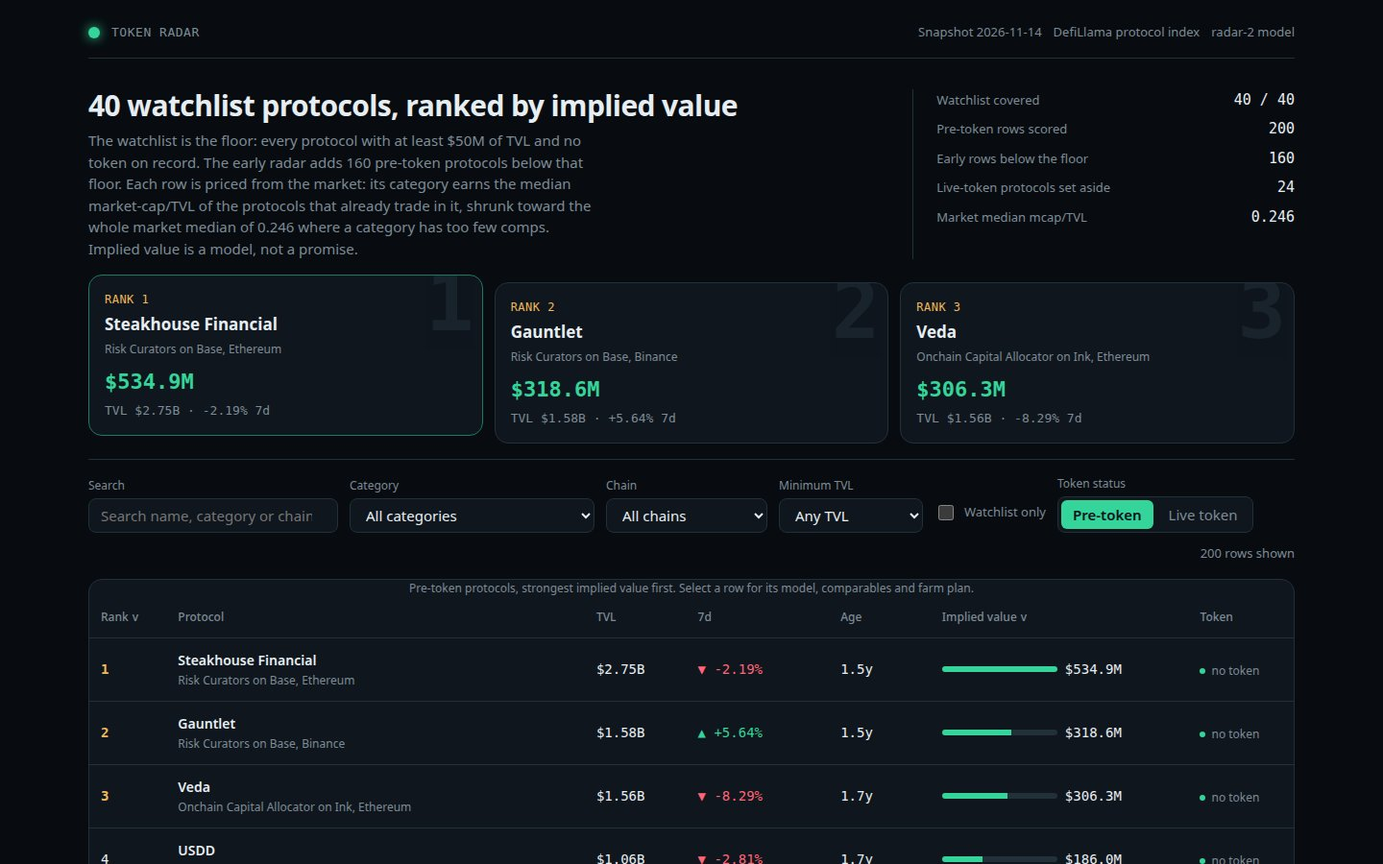
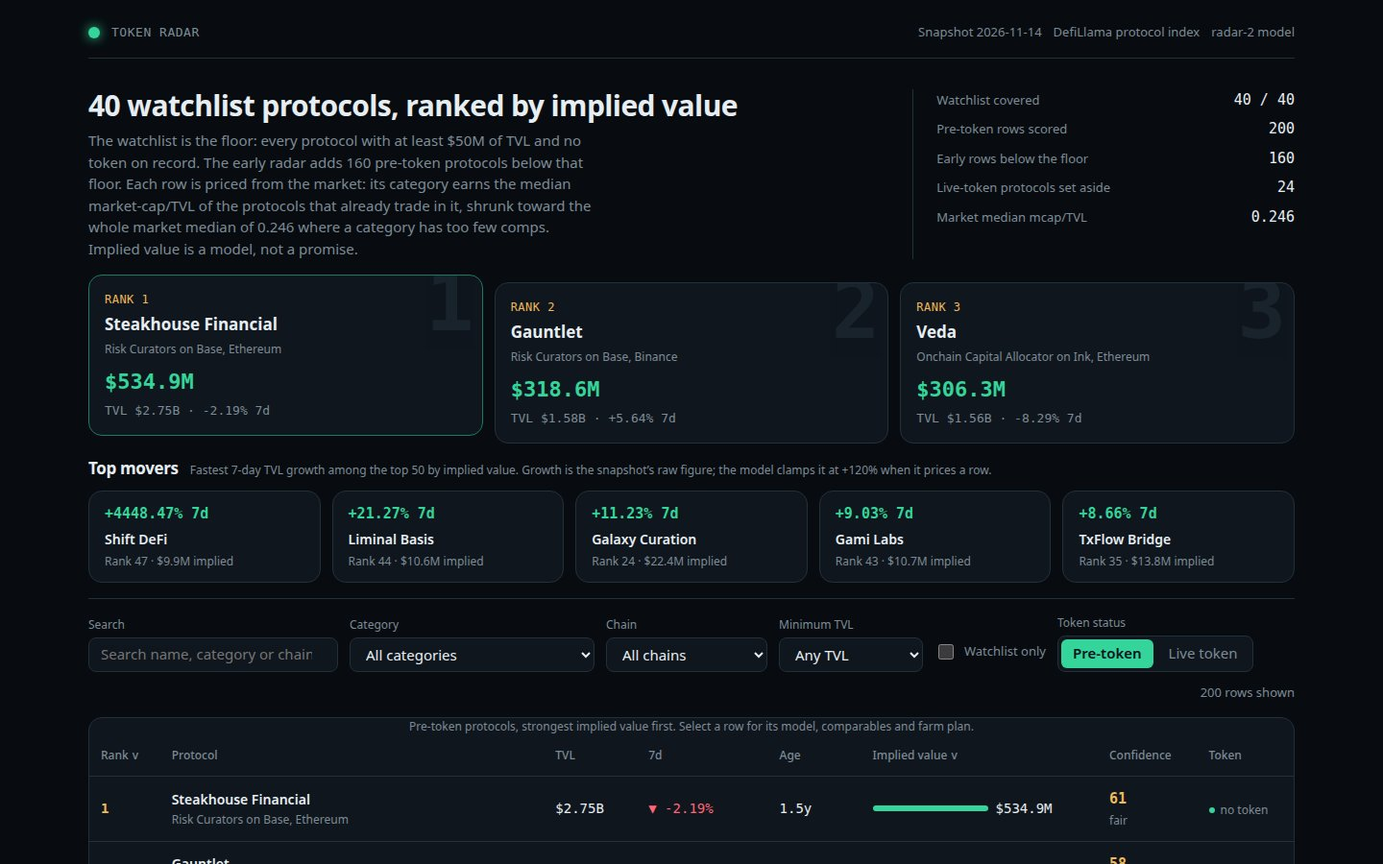
Token Radar resubmission: confidence score, Top Movers, sandbox presets
- Confidence score (0-100) per protocol in board.json and the dashboard:
  40 pts live comps in category, 30 pts TVL size (log $5M-$5B),
  30 pts record (age + growth known). Board column (sortable) + detail
  drawer breakdown with what drives it.
- Top Movers strip: 5 fastest 7-day TVL growers among the top 50 by
  implied value, each opening its detail drawer.
- Sandbox presets Conservative / Base / Aggressive set growth + maturity
  weights together, with a live note on how the top 3 moves.
- Model: maturity_weight added (base 1.0, board identical to submitted).
  Top-5 implied values unchanged (Steakhouse $534.9M, Gauntlet $318.6M,
  Veda $306.3M, USDD $186.0M, Upshift $109.9M).

diff --git a/dashboard/app.js b/dashboard/app.js
@@ -13,7 +13,8 @@
     sort: 'implied', dir: -1, selected: null,
     watchlistOnly: false, tvlMin: 0,
     sandboxWeight: DATA.model.growth_weight, sandboxFallback: DATA.overall_median,
-    sandboxOn: false,
+    sandboxMaturity: DATA.model.maturity_weight || 1,
+    sandboxOn: false, presetNote: '',
   };
 
   var usd = new Intl.NumberFormat('en-US', { style: 'currency', currency: 'USD', maximumFractionDigits: 0 });
@@ -44,19 +45,46 @@
 
   // The model in one function: the page recomputes a row from the snapshot figures and checks the
   // number board.json carries, so the page's code and the board's data are visibly the same
-  // arithmetic. The sandbox changes the growth weight and the fallback multiple (the multiple a
-  // category with too few live comps falls back to) and recomputes every row.
-  function impliedOf(row, model, weight, fallback) {
+  // arithmetic. The sandbox changes the growth weight, the maturity weight and the fallback
+  // multiple (the multiple a category with too few live comps falls back to) and recomputes
+  // every row. The maturity weight scales the age premium: 1 is the submitted model, 0.5 halves
+  // it, 1.5 raises it.
+  function impliedOf(row, model, weight, fallback, maturityWeight) {
     var multiple = (row.category_median !== null && row.category_comps >= 3) ? row.category_multiple : fallback;
     var growth = Math.min(model.growth_cap, Math.max(model.growth_floor, row.change_7d === null || row.change_7d === undefined ? 0 : row.change_7d));
     var growthMult = 1 + (growth / 100) * weight;
     var age = row.age_days === null || row.age_days === undefined ? model.unknown_age_days : row.age_days;
-    var maturity = model.maturity_floor + (Math.min(Math.max(age, 0), model.maturity_days) / model.maturity_days) * model.maturity_range;
+    var mw = maturityWeight === undefined || maturityWeight === null ? 1 : maturityWeight;
+    var maturity = model.maturity_floor + (Math.min(Math.max(age, 0), model.maturity_days) / model.maturity_days) * model.maturity_range * mw;
     return Math.max(1, Math.round(row.tvl_usd * multiple * growthMult * maturity));
   }
   function shownImplied(row) {
     if (!state.sandboxOn) return row.implied_value_usd;
-    return impliedOf(row, DATA.model, state.sandboxWeight, state.sandboxFallback);
+    return impliedOf(row, DATA.model, state.sandboxWeight, state.sandboxFallback, state.sandboxMaturity);
+  }
+
+  // Confidence: 0-100, from the snapshot's own figures. 40 points for the depth of the
+  // category's live bench (full at 12 comps), 30 for TVL size (log scale $5M-$5B), 30 for the
+  // record (15 age known, 15 growth known). A high implied value with a low score is a thin claim.
+  function confClass(score) {
+    if (score >= 70) return 'conf-high';
+    if (score >= 50) return 'conf-mid';
+    return 'conf-low';
+  }
+  function confLabel(score) {
+    if (score >= 70) return 'solid';
+    if (score >= 50) return 'fair';
+    return 'thin';
+  }
+
+  // Top movers: the fastest seven-day TVL growth among the top 50 by implied value, from the
+  // snapshot's raw growth figures. The model clamps growth at 120% when it prices a row, but the
+  // strip shows the raw figure, so a +4448% week reads as what it is: a tiny base exploding.
+  function topMovers() {
+    return DATA.rows.slice(0, 50)
+      .filter(function (r) { return r.change_7d !== null && r.change_7d !== undefined; })
+      .sort(function (a, b) { return b.change_7d - a.change_7d; })
+      .slice(0, 5);
   }
 
   function el(tag, attrs) {
@@ -201,6 +229,7 @@
       else if (key === 'tvl') { av = a.tvl_usd; bv = b.tvl_usd; }
       else if (key === 'growth') { av = a.change_7d === null ? -Infinity : a.change_7d; bv = b.change_7d === null ? -Infinity : b.change_7d; }
       else if (key === 'age') { av = a.age_days === null ? Infinity : a.age_days; bv = b.age_days === null ? Infinity : b.age_days; }
+      else if (key === 'confidence') { av = a.confidence_score; bv = b.confidence_score; }
       else { av = shownImplied(a); bv = shownImplied(b); }
       if (av < bv) return -state.dir;
       if (av > bv) return state.dir;
@@ -232,6 +261,25 @@
         el('div', { class: 'fact' }, el('span', { text: 'Live-token protocols set aside' }), el('b', { text: String(DATA.live_size) })),
         el('div', { class: 'fact' }, el('span', { text: 'Market median mcap/TVL' }), el('b', { text: String(DATA.overall_median) }))
       )
+    );
+  }
+
+  function moversStrip() {
+    var movers = topMovers();
+    if (movers.length === 0) return null;
+    var cards = movers.map(function (r) {
+      return el('div', { class: 'mover-card', tabindex: '0', role: 'button', onclick: function () { openDetail(r.slug); }, onkeydown: function (e) { if (e.key === 'Enter' || e.key === ' ') { e.preventDefault(); openDetail(r.slug); } } },
+        el('span', { class: 'mover-growth pos', text: '+' + r.change_7d.toFixed(2) + '% 7d' }),
+        el('b', { text: r.name }),
+        el('span', { class: 'sub', text: 'Rank ' + r.rank + ' · ' + fmtUsd(shownImplied(r)) + ' implied' })
+      );
+    });
+    return el('section', { class: 'movers', 'aria-label': 'Top movers' },
+      el('div', { class: 'movers-head' },
+        el('h2', { text: 'Top movers' }),
+        el('span', { class: 'sub', text: 'Fastest 7-day TVL growth among the top 50 by implied value. Growth is the snapshot\u2019s raw figure; the model clamps it at +120% when it prices a row.' })
+      ),
+      el('div', { class: 'movers-grid' }, cards)
     );
   }
 
@@ -330,6 +378,10 @@
           el('div', { class: 'bar', 'aria-hidden': 'true' }, el('i', { style: 'width:' + Math.max(3, Math.round((shownImplied(r) / max) * 100)) + '%' })),
           el('span', { class: 'num', text: fmtUsd(shownImplied(r)) })
         )),
+        el('td', null, el('div', { class: 'conf' },
+          el('span', { class: 'num ' + confClass(r.confidence_score), text: String(r.confidence_score) }),
+          el('span', { class: 'sub', text: confLabel(r.confidence_score) })
+        )),
         el('td', null, el('span', { class: 'status', text: 'no token' }))
       );
       tbody.appendChild(tr);
@@ -345,6 +397,7 @@
             sortHeader('growth', '7d'),
             sortHeader('age', 'Age'),
             sortHeader('implied', 'Implied value'),
+            sortHeader('confidence', 'Confidence'),
             el('th', { scope: 'col', text: 'Token' })
           )),
           tbody
@@ -388,27 +441,60 @@
     });
     var weightInput = el('input', { type: 'number', id: 'sb-weight', step: '0.1', min: '0', max: '2', value: String(state.sandboxWeight) });
     var fallbackInput = el('input', { type: 'number', id: 'sb-fallback', step: '0.01', min: '0.02', max: '2', value: String(state.sandboxFallback) });
+    var maturityInput = el('input', { type: 'number', id: 'sb-maturity', step: '0.1', min: '0', max: '2', value: String(state.sandboxMaturity) });
     var out = el('span', { class: 'out' });
+    var presetNote = el('span', { class: 'out preset-note', text: state.presetNote || '' });
+    function top3Note(weight, maturity, fallback) {
+      var baseTop = DATA.rows.slice(0, 3);
+      var baseTotal = baseTop.reduce(function (s, r) { return s + r.implied_value_usd; }, 0);
+      var rescored = DATA.rows.map(function (r) { return { slug: r.slug, name: r.name, v: impliedOf(r, m, weight, fallback, maturity) }; });
+      rescored.sort(function (a, b) { return b.v - a.v; });
+      var newTop = rescored.slice(0, 3);
+      var newTotal = newTop.reduce(function (s, r) { return s + r.v; }, 0);
+      var pct = baseTotal > 0 ? ((newTotal - baseTotal) / baseTotal * 100) : 0;
+      var leader = newTop[0] ? newTop[0].name : 'none';
+      var stays = leader === baseTop[0].name ? 'stays #1' : 'takes #1 from ' + baseTop[0].name;
+      return 'Top-3 total ' + fmtUsd(baseTotal) + ' -> ' + fmtUsd(newTotal) + ' (' + (pct >= 0 ? '+' : '') + pct.toFixed(1) + '%); ' + leader + ' ' + stays + '.';
+    }
     function refreshOut() {
       var top = DATA.rows[0];
       var before = top ? top.implied_value_usd : 0;
-      var after = top ? impliedOf(top, m, state.sandboxWeight, state.sandboxFallback) : 0;
-      var changed = DATA.rows.filter(function (r) { return impliedOf(r, m, state.sandboxWeight, state.sandboxFallback) !== r.implied_value_usd; }).length;
+      var after = top ? impliedOf(top, m, state.sandboxWeight, state.sandboxFallback, state.sandboxMaturity) : 0;
+      var changed = DATA.rows.filter(function (r) { return impliedOf(r, m, state.sandboxWeight, state.sandboxFallback, state.sandboxMaturity) !== r.implied_value_usd; }).length;
       out.textContent = '';
       out.appendChild(document.createTextNode('Rank 1: '));
       out.appendChild(el('b', { text: fmtUsd(before) + ' -> ' + fmtUsd(after) }));
       out.appendChild(document.createTextNode('  ·  ' + changed + ' of ' + DATA.rows.length + ' rows move'));
       if (state.sandboxOn) out.appendChild(el('span', { class: 'modified-badge', text: 'Model modified' }));
     }
-    weightInput.addEventListener('input', function () { state.sandboxWeight = Number(weightInput.value) || 0; state.sandboxOn = true; refreshOut(); render(); });
-    fallbackInput.addEventListener('input', function () { state.sandboxFallback = Number(fallbackInput.value) || DATA.overall_median; state.sandboxOn = true; refreshOut(); render(); });
-    var reset = el('button', { class: 'button', type: 'button', text: 'Reset model', onclick: function () { state.sandboxWeight = m.growth_weight; state.sandboxFallback = DATA.overall_median; state.sandboxOn = false; render(); } });
+    function applyPreset(name, weight, maturity) {
+      state.sandboxWeight = weight;
+      state.sandboxMaturity = maturity;
+      state.sandboxFallback = DATA.overall_median;
+      state.sandboxOn = !(weight === m.growth_weight && maturity === 1);
+      weightInput.value = String(weight);
+      maturityInput.value = String(maturity);
+      fallbackInput.value = String(DATA.overall_median);
+      state.presetNote = name + ': ' + top3Note(weight, maturity, DATA.overall_median);
+      presetNote.textContent = state.presetNote;
+      refreshOut();
+      render();
+    }
+    weightInput.addEventListener('input', function () { state.sandboxWeight = Number(weightInput.value) || 0; state.sandboxOn = true; state.presetNote = ''; refreshOut(); render(); });
+    fallbackInput.addEventListener('input', function () { state.sandboxFallback = Number(fallbackInput.value) || DATA.overall_median; state.sandboxOn = true; state.presetNote = ''; refreshOut(); render(); });
+    maturityInput.addEventListener('input', function () { state.sandboxMaturity = Number(maturityInput.value) || 0; state.sandboxOn = true; state.presetNote = ''; refreshOut(); render(); });
+    var reset = el('button', { class: 'button', type: 'button', text: 'Reset model', onclick: function () { state.sandboxWeight = m.growth_weight; state.sandboxFallback = DATA.overall_median; state.sandboxMaturity = 1; state.sandboxOn = false; state.presetNote = ''; render(); } });
     refreshOut();
+    var presets = el('div', { class: 'presets' },
+      el('button', { class: 'button preset', type: 'button', text: 'Conservative', onclick: function () { applyPreset('Conservative', 0.25, 0.5); } }),
+      el('button', { class: 'button preset', type: 'button', text: 'Base', onclick: function () { applyPreset('Base', m.growth_weight, 1); } }),
+      el('button', { class: 'button preset', type: 'button', text: 'Aggressive', onclick: function () { applyPreset('Aggressive', 1, 1.5); } })
+    );
     return el('section', { class: 'panel model' },
       el('h2', { text: 'How implied value is computed' }),
       el('p', { class: 'sub', text: 'Every row is scored by one function of the snapshot figures. No protocol name is special-cased, and no row is hand-picked. The category multiple is earned from the market: the median market-cap/TVL of the live-token protocols in that category, shrunk toward the whole market median of ' + DATA.overall_median + ' where a category has fewer than 3 live comps. One honest limit: the multiple is the market\'s circulating market-cap per dollar of TVL, a screening ratio, not a launch FDV. A valuable protocol can have a weakly accruing token, and TVL can be inflated, so read the board as a screen for where a launch would be worth watching, not as a valuation.' }),
       el('div', { class: 'formula' },
-        'implied = round( tvl_usd x multiple(category) x (1 + clamp(change_7d, ' + m.growth_floor + ', ' + m.growth_cap + ') / 100 x ' + m.growth_weight + ') x (' + m.maturity_floor + ' + min(age_days, ' + m.maturity_days + ') / ' + m.maturity_days + ' x ' + m.maturity_range + ') )'
+        'implied = round( tvl_usd x multiple(category) x (1 + clamp(change_7d, ' + m.growth_floor + ', ' + m.growth_cap + ') / 100 x ' + m.growth_weight + ') x (' + m.maturity_floor + ' + min(age_days, ' + m.maturity_days + ') / ' + m.maturity_days + ' x ' + m.maturity_range + ' x ' + (m.maturity_weight || 1) + ') )'
       ),
       el('p', { class: 'sub', text: 'multiple(category) = w x median(category) + (1 - w) x ' + DATA.overall_median + ', w = n / (n + ' + m.shrink_prior + '), n = live comps in the category (n < ' + m.min_comps + ' means the multiple is the market median), capped to [' + m.multiple_floor + ', ' + m.multiple_cap + ']. TVL and seven-day growth come from the snapshot. Age is the time since the protocol was first listed, the best record of how long it has run with no token; an unlisted age uses ' + m.unknown_age_days + ' days.' }),
       el('h3', { text: 'Category markets' }),
@@ -419,12 +505,18 @@
         )
       ),
       el('h3', { text: 'Model sandbox' }),
-      el('p', { class: 'sub', text: 'Change the two dials and the board recomputes live. Growth weight moves every row; the fallback multiple moves only the rows whose category has too few live comps. The board you submit is the one with the dials at their defaults.' }),
+      el('p', { class: 'sub', text: 'Change the three dials and the board recomputes live. Growth weight moves every row; the maturity weight scales the age premium; the fallback multiple moves only the rows whose category has too few live comps. The presets set the growth and maturity weights together. The board you submit is the one with the dials at their defaults.' }),
       el('div', { class: 'sandbox' },
         el('div', { class: 'field' }, el('label', { for: 'sb-weight', text: 'Growth weight' }), weightInput),
+        el('div', { class: 'field' }, el('label', { for: 'sb-maturity', text: 'Maturity weight' }), maturityInput),
         el('div', { class: 'field' }, el('label', { for: 'sb-fallback', text: 'Fallback multiple' }), fallbackInput),
         reset,
         out
+      ),
+      el('div', { class: 'sandbox-presets' },
+        el('span', { class: 'sub', text: 'Scenarios:' }),
+        presets,
+        presetNote
       )
     );
   }
@@ -493,6 +585,26 @@
       ),
       el('p', { class: 'sub', text: 'Model ' + DATA.model_version + ': the same function scores every protocol. The page recomputes this row as ' + fmtUsd(recomputed) + (recomputedClose ? ', the same number board.json carries.' : ', which differs from the board: the data would be stale.') + ' This is an estimate, not a price.' })
     ));
+    // Confidence, in the drawer's own words: what the score is made of and what limits it.
+    var conf = row.confidence || { score: row.confidence_score, comps_points: 0, tvl_points: 0, data_points: 0 };
+    var confBench = row.category_comps >= 12
+      ? 'a deep bench of ' + row.category_comps + ' live comps in its category'
+      : row.category_comps >= 3
+        ? row.category_comps + ' live comps in its category'
+        : 'only ' + row.category_comps + ' live comp' + (row.category_comps === 1 ? '' : 's') + ', so it is priced off the market median';
+    var confData = conf.data_points >= 30
+      ? 'a complete record'
+      : conf.data_points > 0 ? 'one field missing from its record' : 'no age or growth on its record';
+    dialog.appendChild(el('section', { class: 'detail-section' },
+      el('h3', { text: 'Confidence ' + row.confidence_score + ' / 100 · ' + confLabel(row.confidence_score) }),
+      el('div', { class: 'equation' },
+        el('div', null, el('span', { text: 'Live comps in its category' }), el('b', { class: 'num', text: conf.comps_points + ' / 40' })),
+        el('div', null, el('span', { text: 'TVL size' }), el('b', { class: 'num', text: conf.tvl_points + ' / 30' })),
+        el('div', null, el('span', { text: 'Record completeness' }), el('b', { class: 'num', text: conf.data_points + ' / 30' })),
+        el('div', { class: 'total' }, el('span', { text: 'Confidence' }), el('b', { class: 'num', text: String(row.confidence_score) + ' / 100' }))
+      ),
+      el('p', { class: 'sub', text: 'What drives it: ' + confBench + ' (' + conf.comps_points + '/40), a ' + fmtUsd(row.tvl_usd) + ' TVL (' + conf.tvl_points + '/30), and ' + confData + ' (' + conf.data_points + '/30). A high implied value with a low score is a thin claim; a lower value with a high score is a solid one.' })
+    ));
     if (market) {
       var compRows = market.named.map(function (c) {
         return el('tr', null,
@@ -551,6 +663,7 @@
     shell.appendChild(header());
     shell.appendChild(lede());
     if (state.tab === 'pre-token') shell.appendChild(podium());
+    if (state.tab === 'pre-token') shell.appendChild(moversStrip());
     shell.appendChild(controls());
     shell.appendChild(state.tab === 'pre-token' ? boardTable() : liveTable());
     if (state.tab === 'pre-token') shell.appendChild(modelPanel());

diff --git a/lib/model.ts b/lib/model.ts
@@ -55,6 +55,7 @@ export interface ModelConstants {
   maturity_floor: number;
   maturity_range: number;
   maturity_days: number;
+  maturity_weight: number;
   unknown_age_days: number;
   shrink_prior: number;
   min_comps: number;
@@ -69,6 +70,7 @@ export const MODEL: ModelConstants = {
   maturity_floor: 0.6,
   maturity_range: 0.4,
   maturity_days: 1095,
+  maturity_weight: 1,
   unknown_age_days: 365,
   shrink_prior: 5,
   min_comps: 3,
@@ -128,6 +130,8 @@ export interface BoardRow {
   token_status: 'pre-token';
   age_days: number | null;
   implied_value_usd: number;
+  confidence_score: number;
+  confidence: ConfidenceBreakdown;
   model: {
     category_multiple: number;
     category_median: number | null;
@@ -154,6 +158,8 @@ export interface RadarRow {
   listed_at: string | null;
   age_days: number | null;
   implied_value_usd: number;
+  confidence_score: number;
+  confidence: ConfidenceBreakdown;
   category_multiple: number;
   category_median: number | null;
   category_comps: number;
@@ -300,9 +306,42 @@ export function impliedValue(
   const ageForModel = age ?? model.unknown_age_days;
   const maturityMult =
     model.maturity_floor +
-    (Math.min(Math.max(ageForModel, 0), model.maturity_days) / model.maturity_days) * model.maturity_range;
+    (Math.min(Math.max(ageForModel, 0), model.maturity_days) / model.maturity_days) * model.maturity_range * model.maturity_weight;
   const implied = Math.max(1, Math.round(protocol.tvl_usd * multiple * growthMult * maturityMult));
   return { implied, multiple, catMedian, comps, growthPct, growthMult, maturityMult, age };
+}
+
+/** A confidence score's three parts, each out of its own cap, adding to the 0-100 score. */
+export interface ConfidenceBreakdown {
+  score: number;
+  comps_points: number;
+  tvl_points: number;
+  data_points: number;
+}
+
+/**
+ * How much to trust one row's implied value, 0-100, from the snapshot's own figures only.
+ * Three parts: the depth of the category's live bench (40 points, full at 12 comps, so a row
+ * priced off the market median because its category has one comp scores low), the protocol's
+ * size (30 points, log-scaled between the snapshot's $5M floor and $5B, so a bigger TVL is a
+ * steadier base), and the record's completeness (30 points: 15 when the listing age is known,
+ * 15 when the seven-day growth is reported). A high implied value with a low score is a thin
+ * claim; a lower value with a high score is a solid one.
+ */
+export function confidenceScore(
+  comps: number,
+  tvlUsd: number,
+  age: number | null,
+  change7d: number | null,
+): ConfidenceBreakdown {
+  const compsPoints = Math.round((Math.min(Math.max(comps, 0), 12) / 12) * 40 * 10) / 10;
+  const lo = Math.log10(5_000_000);
+  const hi = Math.log10(5_000_000_000);
+  const tvlShare = Math.min(1, Math.max(0, (Math.log10(Math.max(tvlUsd, 1)) - lo) / (hi - lo)));
+  const tvlPoints = Math.round(tvlShare * 30 * 10) / 10;
+  const dataPoints = (age !== null ? 15 : 0) + (change7d !== null ? 15 : 0);
+  const score = Math.max(0, Math.min(100, Math.round(compsPoints + tvlPoints + dataPoints)));
+  return { score, comps_points: compsPoints, tvl_points: tvlPoints, data_points: dataPoints };
 }
 
 /** DefiLlama's version-marker rule: a name ending in a release is a pool of another protocol. */
@@ -344,7 +383,8 @@ export function buildBoard(snapshot: Snapshot, model: ModelConstants = MODEL): B
 
   const scored = [...chosen.values()].map((p) => {
     const v = impliedValue(p, snapshot.as_of, model, medians);
-    return { p, v };
+    const confidence = confidenceScore(v.comps, p.tvl_usd, v.age, p.change_7d);
+    return { p, v, confidence };
   });
   scored.sort((a, b) => b.v.implied - a.v.implied || (a.p.slug < b.p.slug ? -1 : a.p.slug > b.p.slug ? 1 : 0));
   return scored.map((s, i) => ({
@@ -362,6 +402,8 @@ export function buildBoard(snapshot: Snapshot, model: ModelConstants = MODEL): B
     token_status: 'pre-token',
     age_days: s.v.age,
     implied_value_usd: s.v.implied,
+    confidence_score: s.confidence.score,
+    confidence: s.confidence,
     model: {
       category_multiple: round4(s.v.multiple),
       category_median: s.v.catMedian,
@@ -519,6 +561,8 @@ export function radarRow(row: BoardRow): RadarRow {
     listed_at: row.listed_at,
     age_days: row.age_days,
     implied_value_usd: row.implied_value_usd,
+    confidence_score: row.confidence_score,
+    confidence: row.confidence,
     category_multiple: row.model.category_multiple,
     category_median: row.model.category_median,
     category_comps: row.model.category_comps,

diff --git a/dashboard/app.css b/dashboard/app.css
@@ -136,6 +136,31 @@ tbody tr.top3 td:first-child { color: var(--gold); font-weight: 700; }
 .sandbox .field input { min-width: 110px; background: var(--surface); }
 .sandbox .out { font-family: var(--font-num); font-size: 13px; color: var(--muted); }
 .sandbox .out b { color: var(--accent); }
+.sandbox-presets { display: flex; flex-wrap: wrap; align-items: center; gap: var(--step-3); background: var(--canvas); border: 1px solid var(--border); border-radius: var(--radius-control); padding: var(--step-3) var(--step-4); }
+.presets { display: flex; gap: var(--step-2); }
+.preset { min-height: 32px; padding: 0 var(--step-3); font-size: 13px; }
+.preset-note { font-family: var(--font-num); font-size: 13px; color: var(--muted); }
+.preset-note:not(:empty) { color: var(--gold); }
+
+/* Top movers: five cards, one per fastest grower in the top 50. */
+.movers { margin-bottom: var(--step-4); }
+.movers-head { display: flex; flex-wrap: wrap; align-items: baseline; gap: var(--step-3); margin-bottom: var(--step-3); }
+.movers-head h2 { font-size: 17px; }
+.movers-grid { display: grid; grid-template-columns: repeat(5, 1fr); gap: var(--step-3); }
+.mover-card {
+  background: var(--surface); border: 1px solid var(--border); border-radius: var(--radius-panel);
+  padding: var(--step-3) var(--step-4); display: grid; gap: var(--step-1); cursor: pointer;
+}
+.mover-card:hover { border-color: var(--accent-dim); }
+.mover-card .mover-growth { font-family: var(--font-num); font-size: 15px; font-weight: 700; }
+.mover-card b { font-size: 14px; font-weight: 600; }
+
+/* Confidence: a score and a word, coloured by band. */
+.conf { display: grid; gap: 2px; }
+.conf .num { font-size: 15px; font-weight: 700; }
+.conf-high { color: var(--accent); }
+.conf-mid { color: var(--gold); }
+.conf-low { color: var(--negative); }
 .button { min-height: 36px; padding: 0 var(--step-4); border: 1px solid var(--border); border-radius: var(--radius-control); background: var(--surface); color: var(--ink); }
 .button.primary { background: var(--accent); border-color: var(--accent); color: #06131c; font-weight: 600; }
 .empty { padding: var(--step-7) var(--step-5); text-align: center; display: grid; gap: var(--step-3); justify-items: center; }
@@ -188,6 +213,7 @@ tbody tr.top3 td:first-child { color: var(--gold); font-weight: 700; }
   .lede { grid-template-columns: 1fr; gap: var(--step-4); }
   .facts { border-left: 0; border-top: 1px solid var(--border); padding-left: 0; padding-top: var(--step-4); }
   .podium { grid-template-columns: 1fr; }
+  .movers-grid { grid-template-columns: 1fr; }
   .field input { min-width: 0; width: 100%; }
 }
 @media (prefers-reduced-motion: reduce) {

diff --git a/README.md b/README.md
@@ -6,6 +6,8 @@
 
 Token Radar ranks the pre-token DeFi protocols by what their token launch would be worth, and hands in a web dashboard with the board, a detail view for every protocol and the steps to farm it. Each row is priced from the market: its category earns the median market-cap/TVL of the protocols that already trade in it, shrunk toward the whole market median where a category has too few live comps.
 
+Every row also carries a **confidence score (0–100)**: 40 points for the depth of its category's live bench, 30 for TVL size (log scale), 30 for the record (age and growth known). A high implied value with a low score is a thin claim. A **Top Movers** strip shows the five fastest 7-day TVL growers among the top 50 by implied value. The **model sandbox** adds three scenarios — Conservative, Base, Aggressive — that set the growth and maturity weights together and show how the top 3 moves.
+
 ## Run it
 
 ```sh
